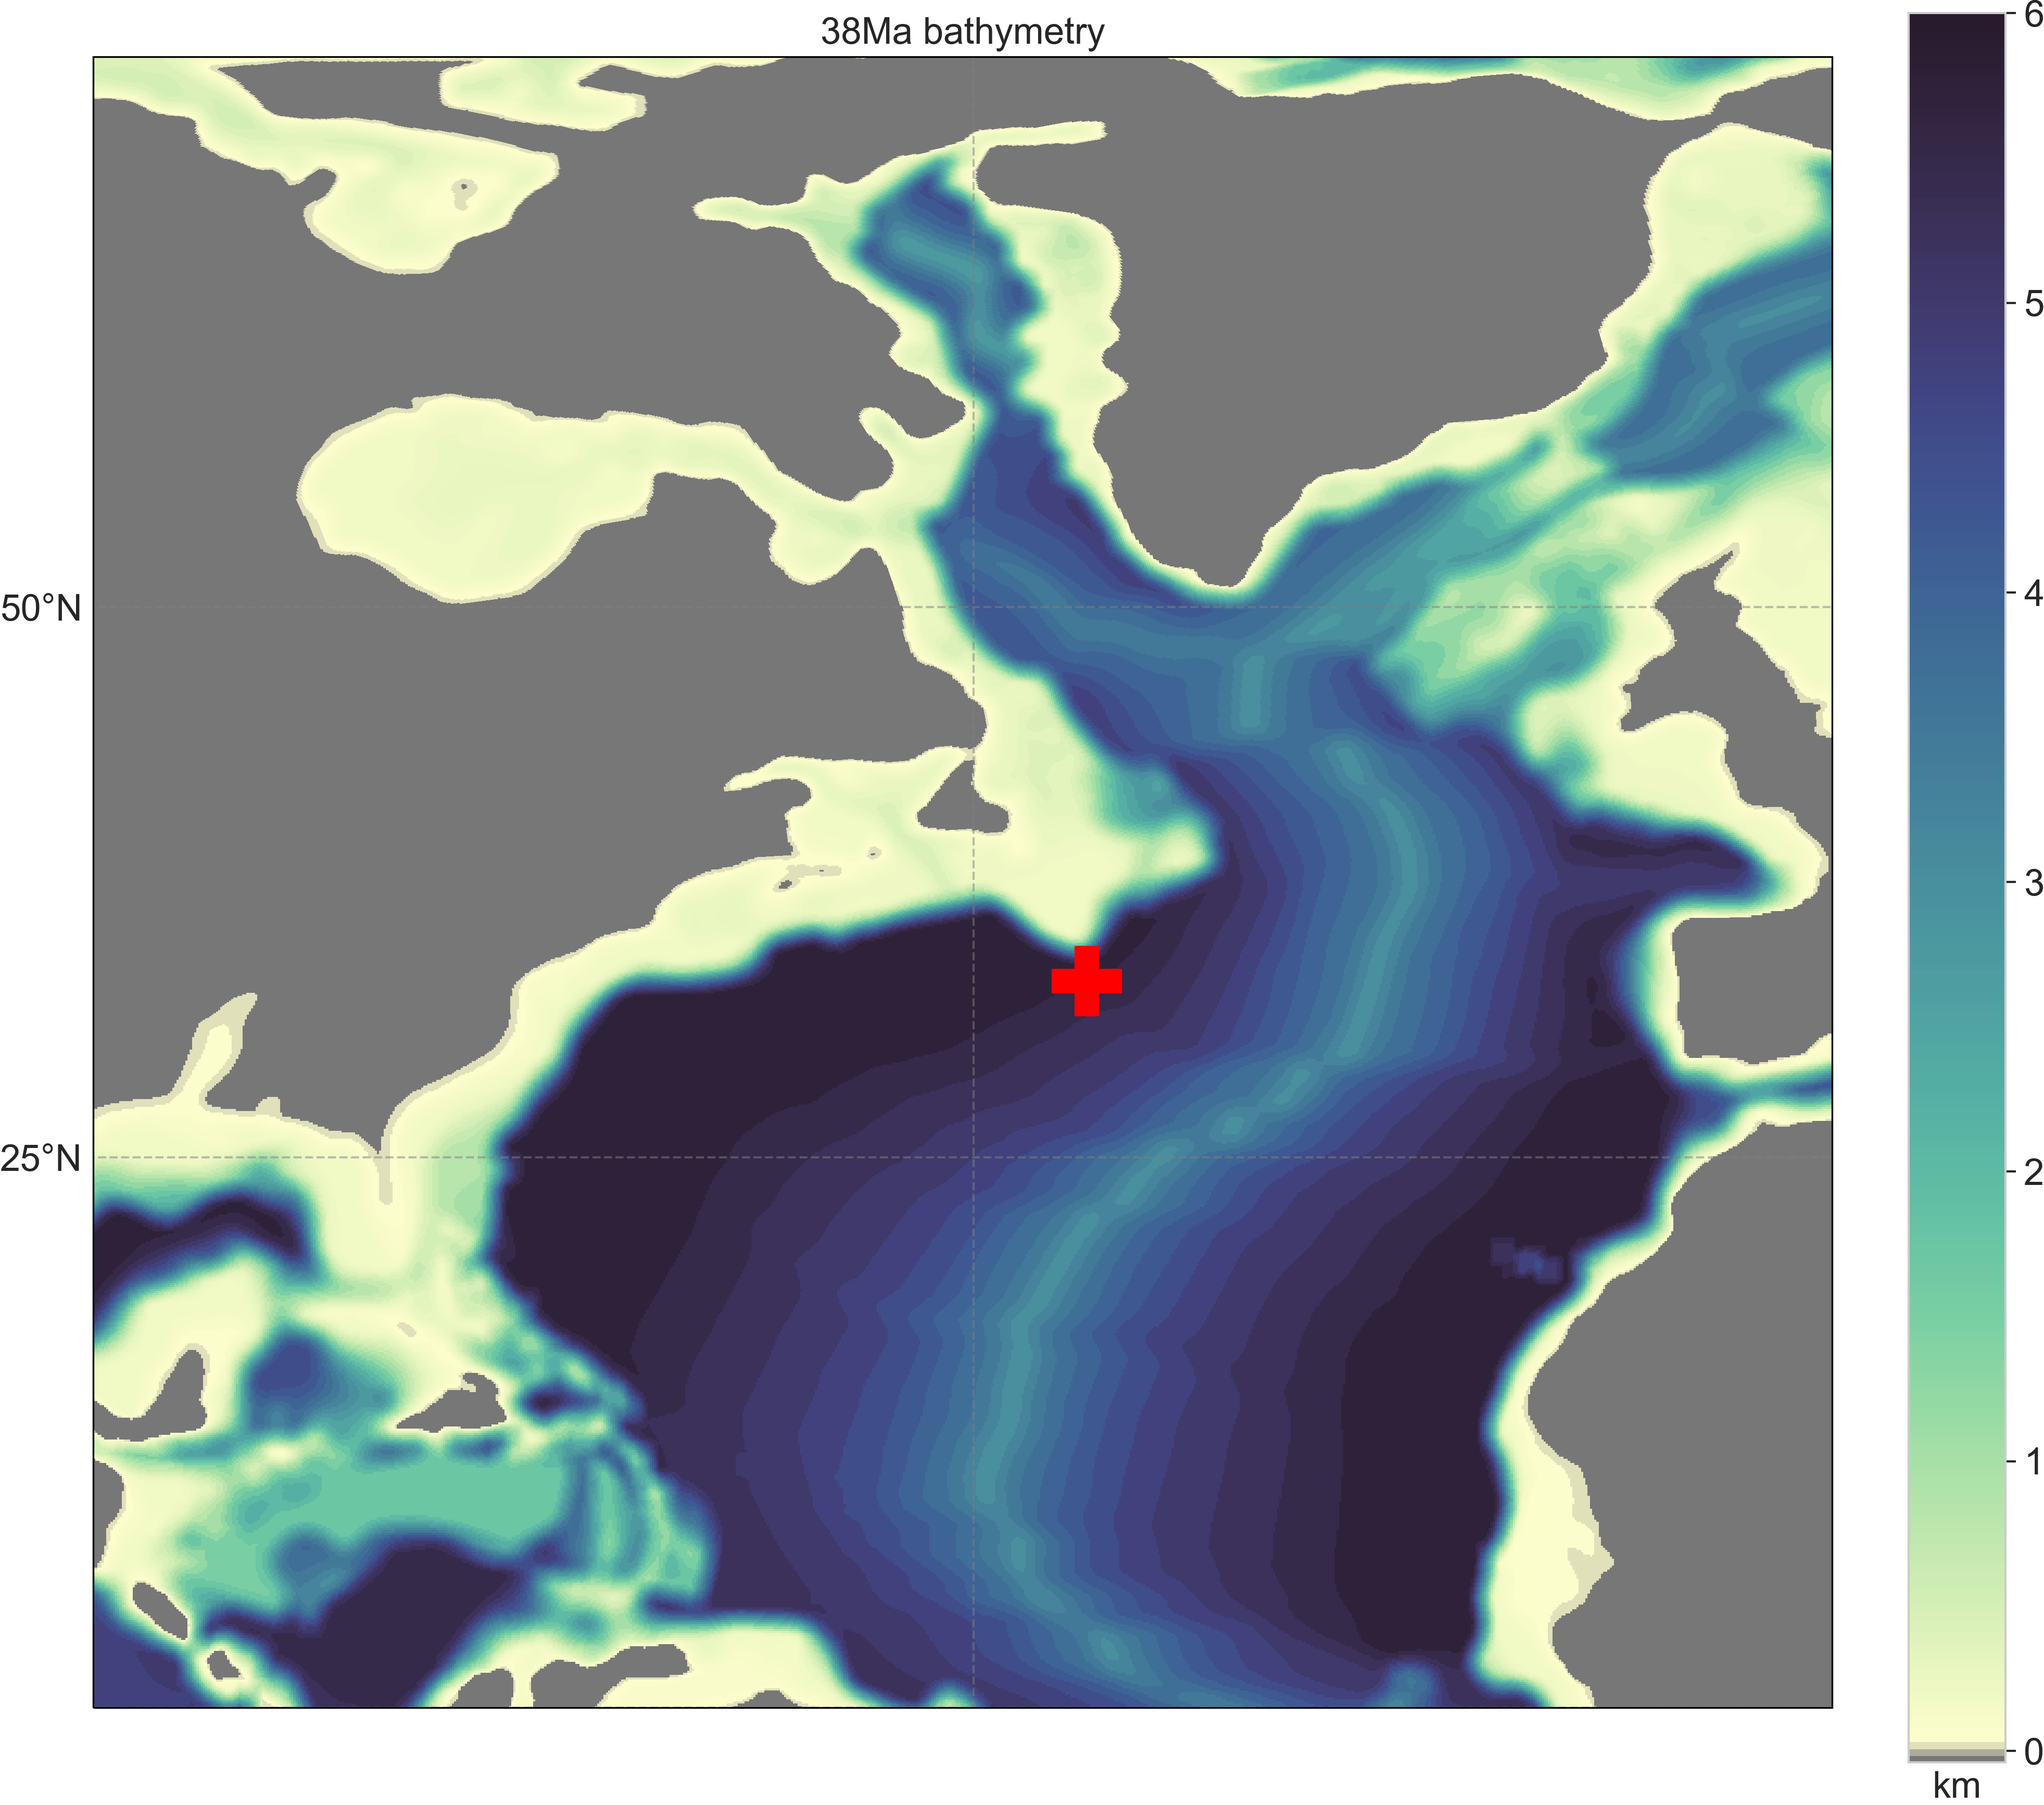
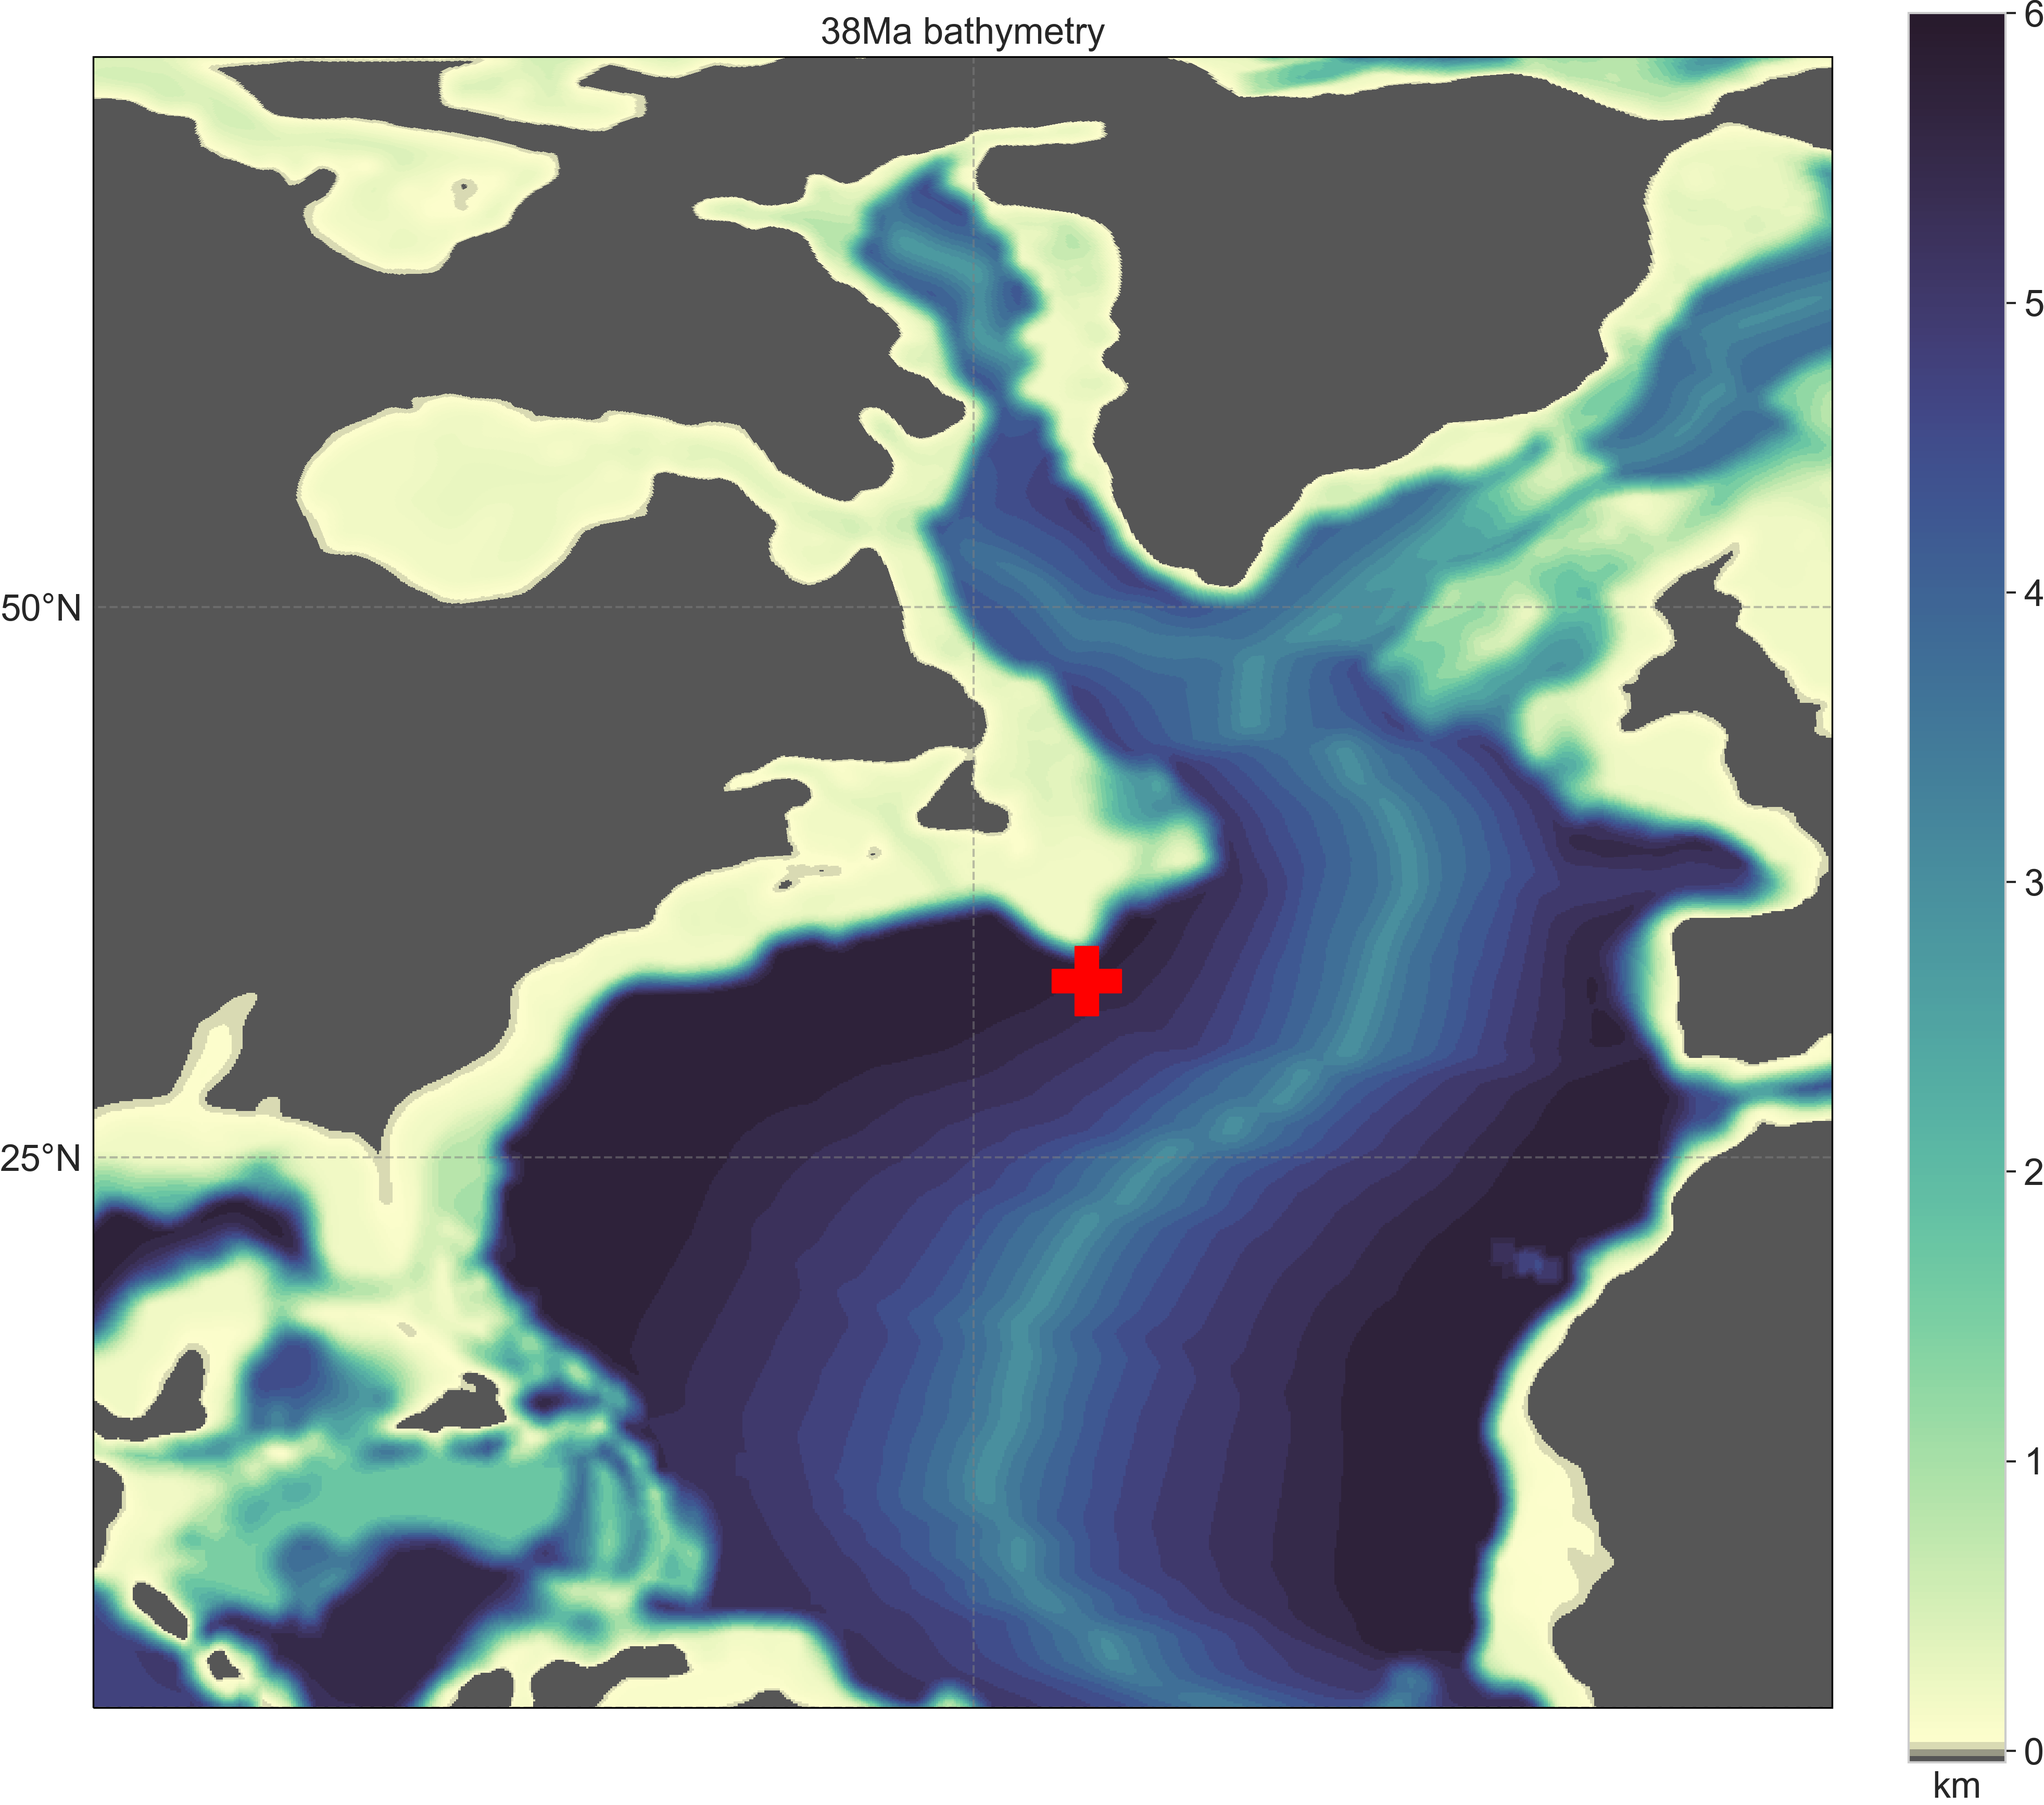
add a global bathymetry plot and calculate shortest distance to land for sediment sample sites

diff --git a/bathymetry/plot_bathymetry_global.py b/bathymetry/plot_bathymetry_global.py
@@ -1,0 +1,156 @@
+#!/usr/bin/env python3
+# -*- coding: utf-8 -*-
+"""
+Created on Tue Jul 16 15:41:33 2019
+
+@author: nooteboom
+"""
+
+import numpy as np
+import matplotlib.pylab as plt
+from netCDF4 import Dataset
+import matplotlib
+import cartopy.crs as ccrs
+import seaborn as sns
+from cartopy.mpl.gridliner import LONGITUDE_FORMATTER, LATITUDE_FORMATTER
+import matplotlib.ticker as mticker
+import math
+from numba import jit
+import cartopy.mpl.ticker as cticker
+from matplotlib.lines import Line2D
+import cmocean.cm as cm
+import cartopy.feature as cfeature
+from scipy.ndimage import gaussian_filter
+from copy import copy
+
+def mycolormap():
+    import matplotlib.colors as mcolors
+    # sample the colormaps that you want to use. Use 128 from each so we get 256
+    # colors in total
+    colors2 = cm.deep(np.linspace(0., 1, 128))
+    colors1 = plt.cm.Greys(np.linspace(0, 1, 128))[80:82]
+
+    # combine them and build a new colormap
+    colors = np.vstack((colors1, colors2))
+    return mcolors.LinearSegmentedColormap.from_list('my_colormap', colors)
+
+#%% load sediment sample site locations
+ff = np.load('paleolocs_38Ma.npz')
+paleolons = ff['longitudes'] 
+paleolonstext = copy(paleolons)# + 180
+#paleolonstext[paleolonstext>360] -= 720
+#paleolons[paleolons<180] += 180
+paleolats = ff['latitudes']
+sitenames = ff['names']
+#%%
+
+sns.set(context='paper',style="whitegrid",font="Arial")
+fs = 19
+font = {'size'   : fs}
+matplotlib.rc('font', **font)
+
+#variables
+sp = 6
+dd = 10
+projection = ccrs.PlateCarree(0)
+#exte = [1, 360, -74, 81]
+exte = [1, 360, -75, -10]
+cmap = mycolormap()
+vsbath = [-0.05,6]
+rr = 1 # determines the resolution reduction for the plotting
+contours = [-5e-5,-3e-5,-2e-5,-1e-5,0,1e-5, 2E-5, 3E-5, 5E-5]#[0,1.25E-5, 2E-5, 2.5E-5, 3E-5,3.75E-5, 5E-5]
+#%% Load files
+minlat = -80
+maxlat = 80
+minlat38 = -78
+
+# Load PD
+dirRead = '/Users/nooteboom/Documents/PhD/Eocene_POP/OUPUT/gridf/'
+#ncPD = Dataset(dirRead + 'bathymetry_POP_0.1res.nc')
+ncPDgrid = Dataset(dirRead + 'grid_coordinates_pop_tx0.1.nc')
+latsPD = ncPDgrid['U_LAT_2D'][:]
+lonsPD = ncPDgrid['U_LON_2D'][:]
+minlon = np.min(lonsPD)
+maxlon = np.max(lonsPD)
+extePD = [minlon, maxlon, minlat, maxlat]
+idx = np.where(np.logical_and(latsPD[:,0]>=minlat, latsPD[:,0]<=maxlat))
+
+bathPD = (ncPDgrid['BOT_DEP'][:] / 1000)[idx[0]]
+bathPD_smooth = copy(bathPD)
+bathPD_smooth[bathPD_smooth.mask] = 0
+bathPD_smooth = gaussian_filter(bathPD_smooth, 7)
+fHPD = (-2 * 7.2921 * 10**(-5) * np.sin(latsPD[idx[0]]*np.pi/180) / bathPD_smooth)
+latsPD = latsPD[idx[0]]
+lonsPD = lonsPD[idx[0]]
+
+# Load 38MA
+nc38 = Dataset(dirRead + 'kmt_tx0.1_POP_EO38_poleland.nc')
+nc38grid = Dataset(dirRead + 'grid_coordinates_pop_tx0.1_38ma.nc')
+lats38 = nc38grid['U_LAT_2D'][:]
+lons38 = nc38grid['U_LON_2D'][:] + 25
+minlon = np.min(lons38)
+maxlon = np.max(lons38)
+exte38 = [minlon, maxlon, minlat38, maxlat]
+idx = np.where(np.logical_and(lats38[:,0]>=minlat38, lats38[:,0]<=maxlat))
+
+bath38 = (-1*nc38['elevation'][:] / 1000)[idx[0]]
+fH38 = (-2 * 7.2921 * 10**(-5) * np.sin(lats38[idx[0]]*np.pi/180) / bath38)
+lats38 = lats38[idx[0]]
+lons38 = lons38[idx[0]]
+#%% start figure
+latticks = [-100,-75,-50,-25, 0, 25, 50, 75, 100]#[-75,-65,-55,-45,-35,-25, 0, 25, 50, 75, 100]
+fig = plt.figure(figsize=(16,9))
+
+#%% subplot (a)
+ax2 = plt.subplot(111, projection=projection)
+plt.title('38Ma bathymetry', fontsize=fs)
+
+g = ax2.gridlines(crs=ccrs.PlateCarree(), draw_labels=True,
+                  linewidth=1, color='gray', alpha=0.5, linestyle='--')
+g.xlocator = mticker.FixedLocator([-180,-90, -0, 90, 180])
+g.xlabels_top = False
+g.ylabels_right = False
+g.xlabels_bottom = True
+g.xlabels_left = True
+g.xlabel_style = {'fontsize': fs}
+g.ylabel_style = {'fontsize': fs}
+g.xformatter = LONGITUDE_FORMATTER
+g.yformatter = LATITUDE_FORMATTER
+g.ylocator = mticker.FixedLocator(latticks)
+ax2.set_extent(exte38, ccrs.PlateCarree())
+#ax2.set_xticks([0., 90., 180., 270.], crs=ccrs.PlateCarree())
+#ax2.set_xticklabels(['0$^{\circ}$E', '90$^{\circ}$E', 
+#                     '180$^{\circ}$E', '270$^{\circ}$E'], fontsize=fs)
+
+im2 = plt.pcolormesh(lons38[::rr,::rr], lats38[::rr,::rr], bath38[::rr,::rr], cmap=cmap, 
+                     vmin=vsbath[0], vmax=vsbath[1],
+                     transform=ccrs.PlateCarree()
+                     )
+ax2.scatter(paleolons,paleolats, marker='+', s=1000, color='red', 
+            zorder=3000)#,transform=ccrs.PlateCarree())
+
+for tx in range(len(paleolonstext)):
+    ax2.text(paleolonstext[tx]+1,paleolats[tx]+1, sitenames[tx], fontsize=15,
+             horizontalalignment='left', color='red')#,
+#             transform=ccrs.PlateCarree())
+
+#%% final
+fig.subplots_adjust(right=0.95)
+cbar_ax = fig.add_axes([0.95, 0.1, 0.1, 0.8])
+cbar_ax.set_visible(False)
+cbar = fig.colorbar(im2, ax=cbar_ax, orientation = 'vertical', fraction = 0.8,
+                    aspect=18)
+cbar.ax.xaxis.set_label_position('bottom')
+
+#fig.subplots_adjust(bottom=0.17)
+#cbar_ax = fig.add_axes([0.135, 0., 0.8, 0.07])
+#cbar_ax.set_visible(False)
+#cbar = fig.colorbar(im2, ax=cbar_ax, orientation = 'horizontal', fraction = 1.2,
+#                    aspect=18)
+#cbar.ax.xaxis.set_label_position('bottom')
+cbar.ax.set_xlabel('km', fontsize=fs)
+cbar.ax.tick_params(labelsize=fs)
+
+
+plt.savefig('Bathymetry.png', dpi=300,bbox_inches='tight',pad_inches=0)
+plt.show()

diff --git a/bathymetry/calculate_distance_to_shore.py b/bathymetry/calculate_distance_to_shore.py
@@ -1,0 +1,85 @@
+#!/usr/bin/env python3
+# -*- coding: utf-8 -*-
+"""
+Created on Tue Feb  9 15:11:18 2021
+
+@author: nooteboom
+"""
+
+import numpy as np
+import matplotlib.pylab as plt
+from netCDF4 import Dataset
+from math import sin, cos, sqrt, atan2, radians
+from numba import jit
+import pandas as pd
+
+@jit(nopython=True)
+def distance(lon1, lat1, lon2, lat2):
+    lon1 = radians(lon1)
+    lon2 = radians(lon2)
+    lat1 = radians(lat1)
+    lat2 = radians(lat2)
+    # approximate radius of earth in km
+    R = 6373.0
+    dlon = lon2 - lon1
+    dlat = lat2 - lat1
+    
+    a = sin(dlat / 2)**2 + cos(lat1) * cos(lat2) * sin(dlon / 2)**2
+    c = 2 * atan2(sqrt(a), sqrt(1 - a))
+    
+    return R * c  # in km
+    
+@jit(nopython=True)
+def calculate_distance(loc, lons, lats):
+    assert len(loc)==2, 'loc is a list which should contain the longitude and latitude of one location'
+    assert len(lons.shape)==len(lats.shape)
+    assert len(lats.shape)==1
+
+    sd = 10**10
+    for i in range(len(lons)):
+        dis = distance(loc[0], loc[1], lons[i], lats[i])
+        if(dis<sd):
+            sd = dis
+    return sd # in km
+
+#%% load sediment sample site locations
+ff = np.load('paleolocs_38Ma.npz')
+paleolons = ff['longitudes'] 
+paleolons[paleolons<180] += 180
+paleolats = ff['latitudes']
+sitenames = ff['names']
+#%%
+minlat = -80
+maxlat = 80
+dirRead = '/Users/nooteboom/Documents/PhD/Eocene_POP/OUPUT/gridf/'
+
+# Load 38MA bathyemtry
+nc38 = Dataset(dirRead + 'kmt_tx0.1_POP_EO38_poleland.nc')
+nc38grid = Dataset(dirRead + 'grid_coordinates_pop_tx0.1_38ma.nc')
+lats38 = nc38grid['U_LAT_2D'][:]
+lons38 = nc38grid['U_LON_2D'][:] + 25
+minlon = np.min(lons38)
+maxlon = np.max(lons38)
+exte38 = [minlon, maxlon, minlat, maxlat]
+idx = np.where(np.logical_and(lats38[:,0]>=minlat, lats38[:,0]<=maxlat))
+
+bath38 = (-1*nc38['elevation'][:] / 1000)[idx[0]]
+fH38 = (-2 * 7.2921 * 10**(-5) * np.sin(lats38[idx[0]]*np.pi/180) / bath38)
+lats38 = lats38[idx[0]]
+lons38 = lons38[idx[0]]
+#%%
+shortestdistances= []
+idx = np.where(bath38<0)
+for j in range(len(paleolons)):
+    lo = paleolons[j]
+    la = paleolats[j]
+    shortestdistances.append(calculate_distance([lo, la], 
+                                                lons38[idx].flatten(),
+                                                lats38[idx].flatten()))
+#%% write as csv
+df = pd.DataFrame(np.array([paleolons.tolist(), paleolats.tolist(), 
+                            sitenames.tolist(), shortestdistances]),
+                   columns=['paleolongitudes', 'paleolatitudes', 'names',
+                            'shortest distance to land (km)'])
+
+    

diff --git a/bathymetry/plot_bathymetry_NA.py b/bathymetry/plot_bathymetry_NA.py
@@ -120,7 +120,7 @@ minlon=280
 maxlon=359
 vsbath = [-0.04,6]
 colors1 = cm.deep(np.linspace(0, 1, 100))
-colors2 = matplotlib.cm.get_cmap('Greys')(np.linspace(0, 1, 83))[50:51]
+colors2 = matplotlib.cm.get_cmap('Greys')(np.linspace(0, 1, 83))[60:61]
 colors = np.vstack((colors2, colors1))
 cmap = mcolors.LinearSegmentedColormap.from_list('my_colormap', colors)
 #cmap = cm.deep
